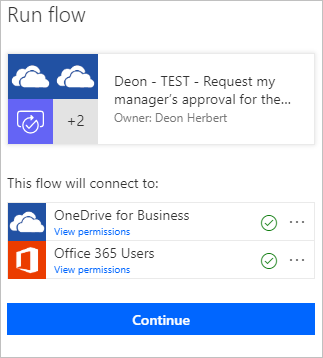
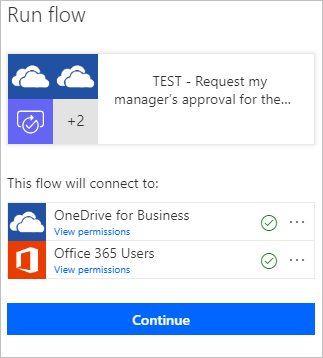
Remove PII and update text

Changed region(s): [[0.3406, 0.2151, 0.8669, 0.2458], [0.3406, 0.3073, 0.7121, 0.338]]

diff --git a/articles/onedrive-business-launch-panel.md b/articles/onedrive-business-launch-panel.md
@@ -48,7 +48,7 @@ In this walkthrough, we'll create a simple flow that uses one of the many [OneDr
     In this example, select the **Request my manager's approval for the selected file** template.
 
      >[!TIP]
-     >Sign into any connectors that requests that you sign in.
+     >Sign into all connectors that request that you sign in.
 
 1. Select **Continue**.
 1. Make any changes you want to the template and then save your flow with a name that you'll remember easily.
@@ -56,7 +56,7 @@ In this walkthrough, we'll create a simple flow that uses one of the many [OneDr
 ## Run the flow
 
 1. Sign into OneDrive for Business.
-1. Find, and then select the file on which request manager approval.
+1. Find, and then select the file for which you want to request manager approval.
 1. Select the **Show actions** link (three dots).
 1. Select **Flow**. You'll see the flow that you created earlier.
 1. Select the flow you created earlier.
